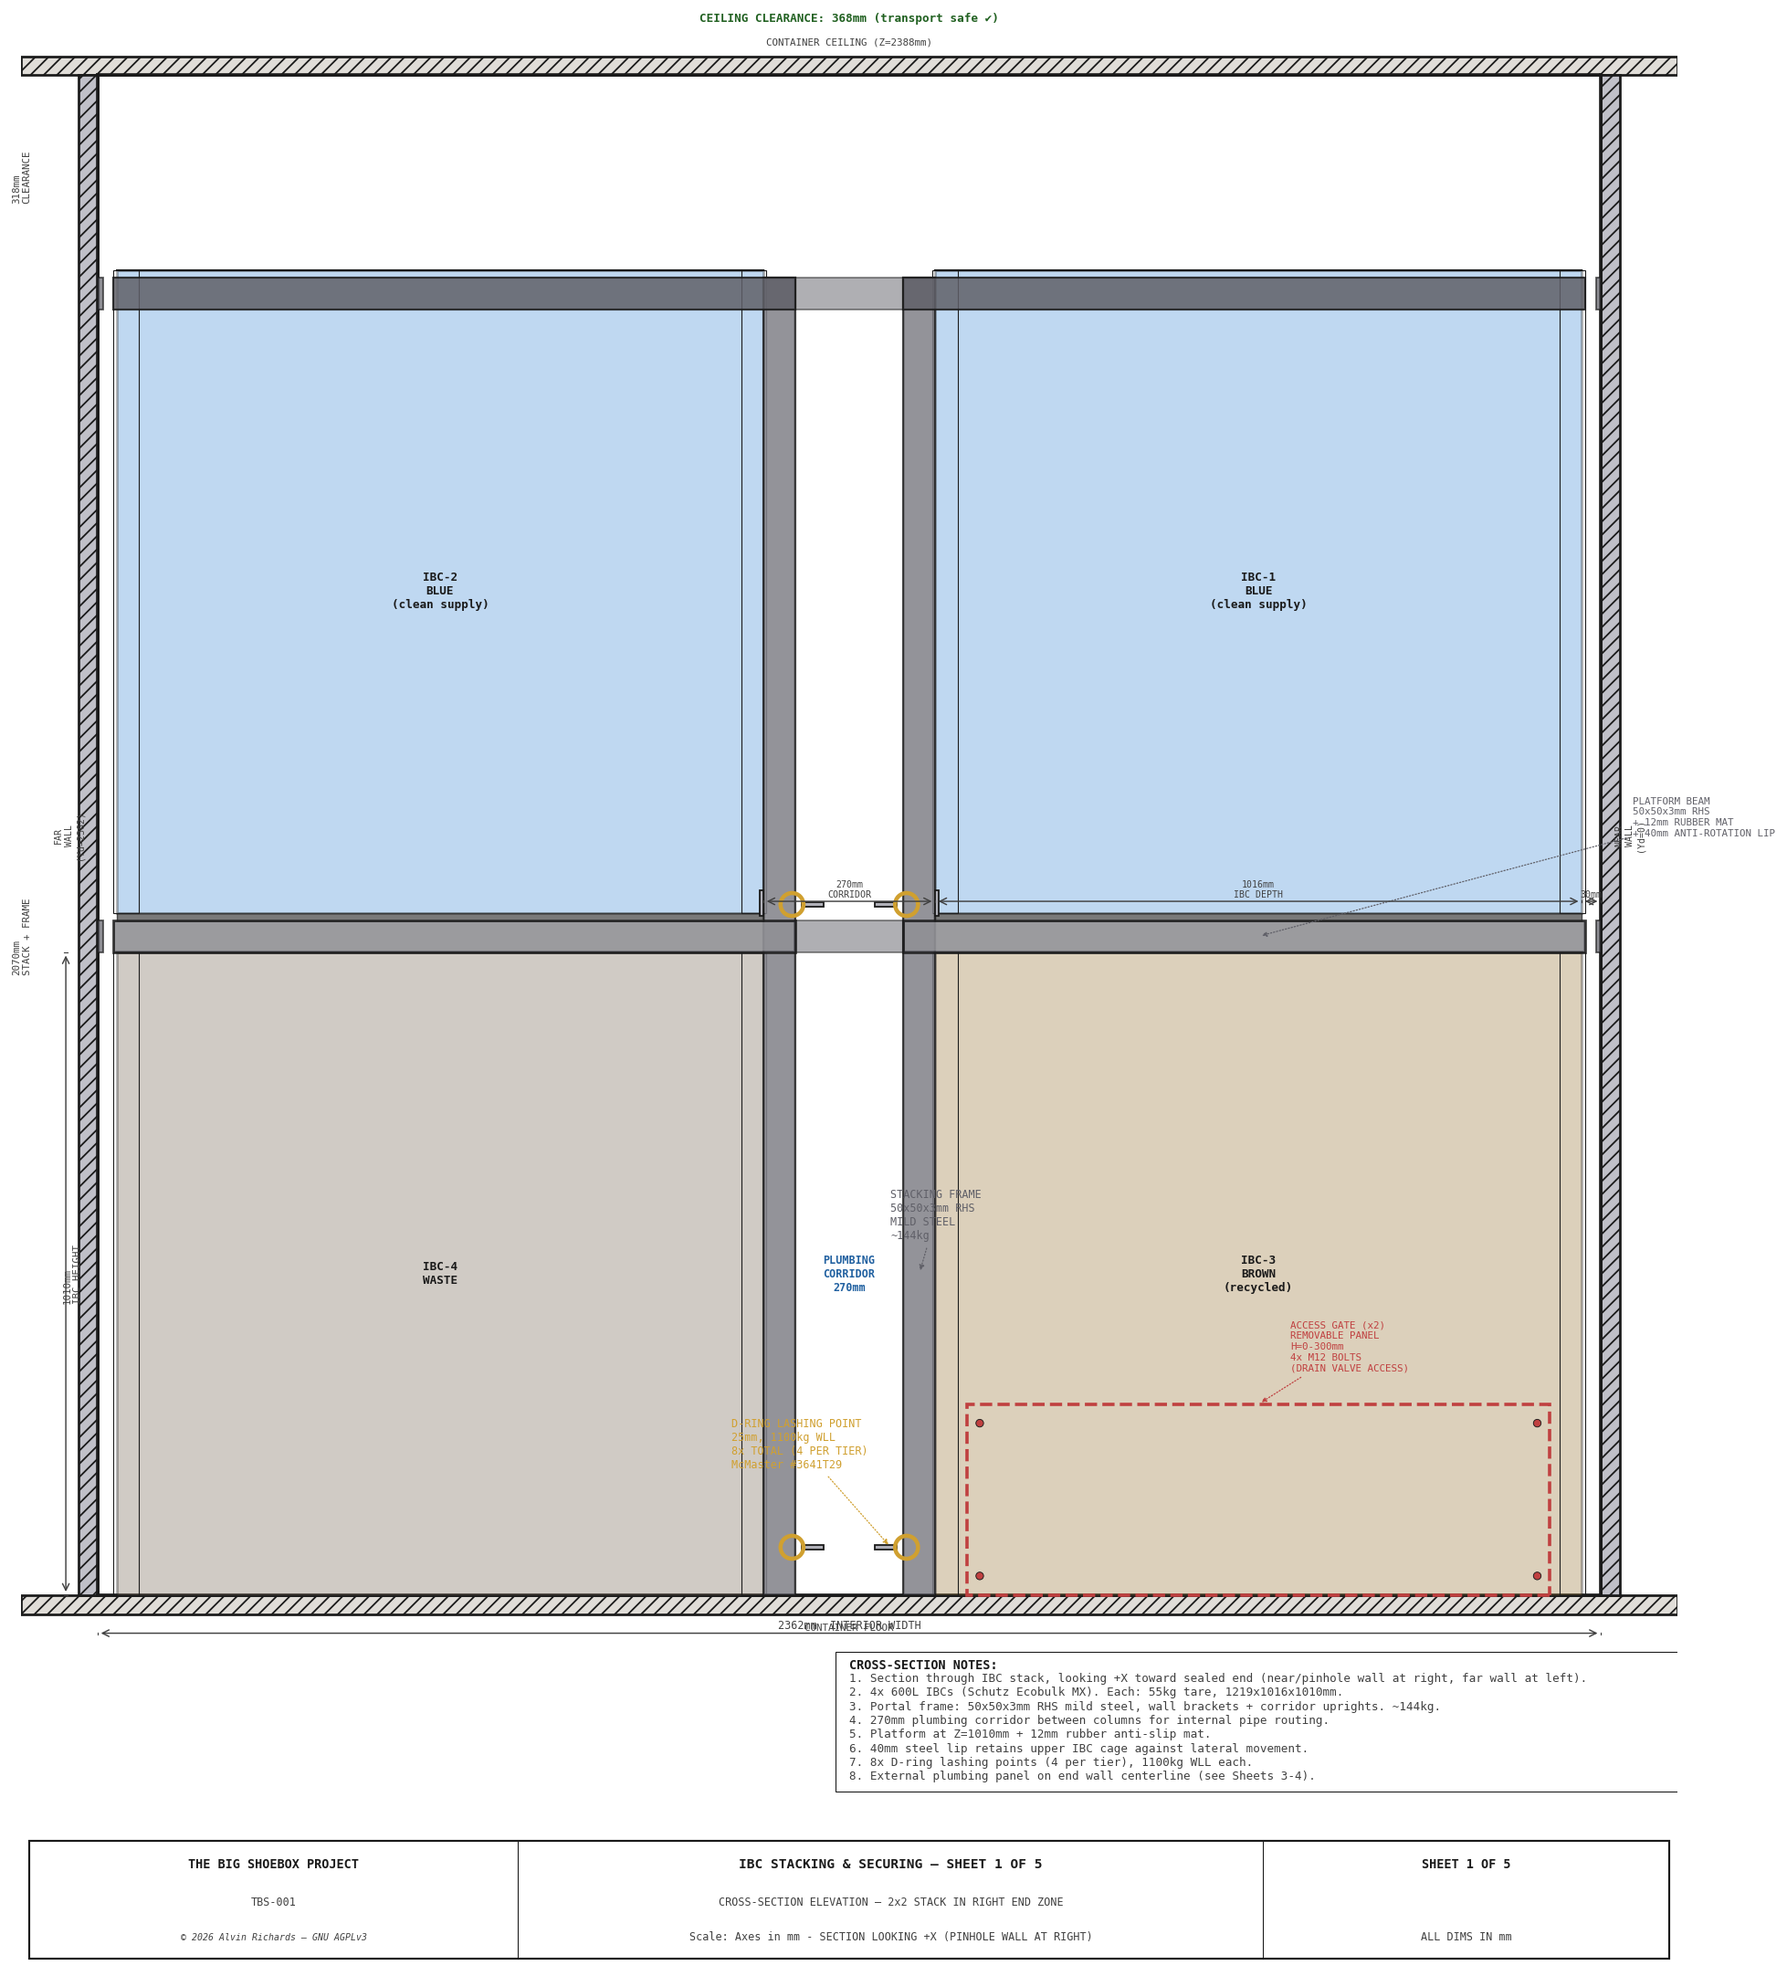
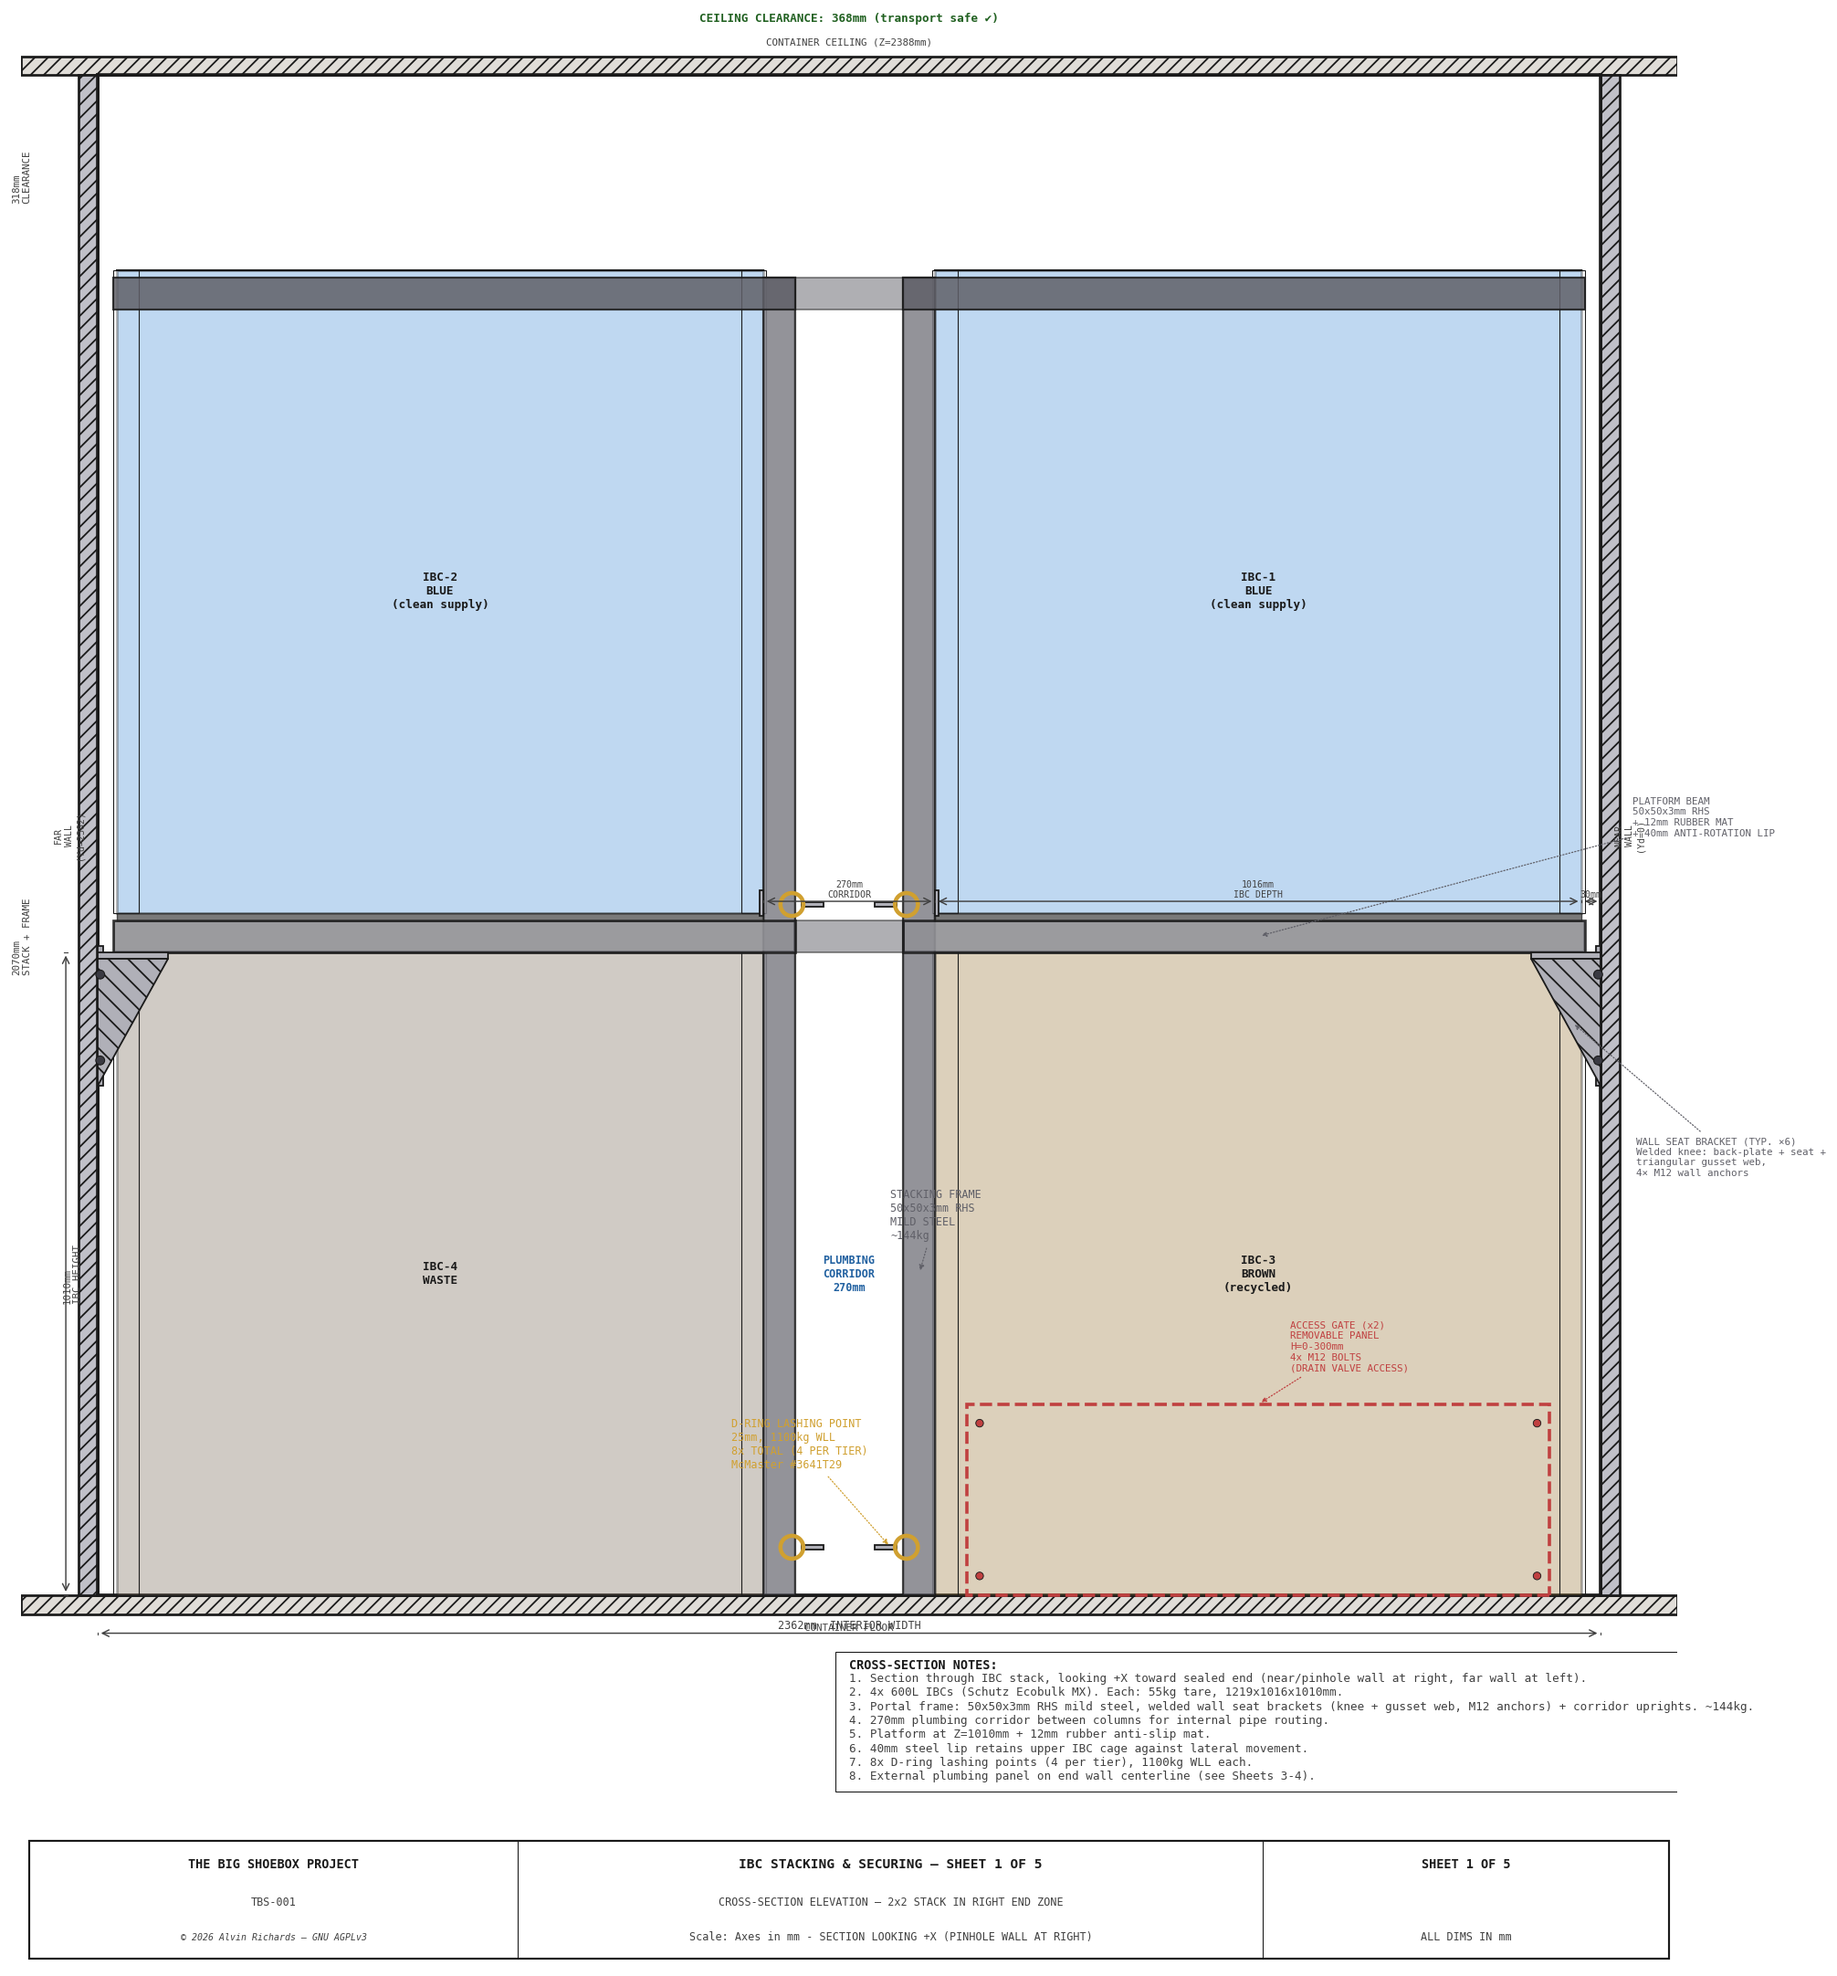
ibc-stacking Sheet 1: draw the welded wall seat brackets like the 3D
Sheet 1 only showed two 8mm angle-bracket stubs at each wall — it didn't
depict the wall seat brackets that the 3D ibc_rack() builds. Redrew them as
the actual welded knee fabrication, matching the model's Wall Bracket
Plate/Seat/Gusset parts:

- vertical back-plate bolted to the container wall,
- horizontal seat the platform-beam OUTER end lands on (turning the
  cantilever into a simple span),
- triangular gusset web between back-plate and seat tip (hatched),
- 2 visible M12 wall-anchor heads, both walls (mirrored), with a callout.

Drawing-logic fix only (audit failure mode 2) — the brackets already
existed in the design, FRAME_WEIGHT, and the reports; no spec, constant,
quantity, or cost change.

diff --git a/src/generators/generate_ibc_stacking_diagram.py b/src/generators/generate_ibc_stacking_diagram.py
@@ -215,13 +215,48 @@ def sheet1():
                                 fc=C_WALL, ec="none", lw=0, zorder=7,
                                 alpha=0.3))
 
-    # Wall brackets (shown as small angle brackets at near and far walls)
-    for wyd, flip in [(0, False), (C_WID - 8, True)]:
-        bracket_w = 8
-        for bz in [platform_z, IBC_H_STK]:
-            ax.add_patch(Rectangle((sx(wyd), sy(bz)),
-                                    sx(bracket_w), sy(FRAME_RHS),
-                                    fc=C_FRAME, ec=C_OUT, lw=1.0, zorder=7, alpha=0.7))
+    # ── Wall seat brackets: welded knee bracket (vertical back-plate + horizontal
+    # seat + triangular gusset web + M12 wall anchors) props each platform-beam
+    # OUTER end against the container wall, turning the cantilever into a simple
+    # span. Matches the 3D "Wall Bracket Plate / Seat / Gusset" fabrication
+    # (~110 kg each, one per X-station per wall). ──
+    C_BOLT    = "#3A3A42"
+    seat_top  = platform_z          # 1010 — platform-beam end lands here
+    proj      = 110                 # seat projection into container (Yd)
+    seat_t    = 10                  # seat plate thickness
+    gh        = 200                 # gusset web depth below the seat
+    plate_t   = 8                   # back-plate thickness (against wall)
+    seat_bot  = seat_top - seat_t
+    guss_bot  = seat_bot - gh
+    plate_top = seat_top + 10
+    for wyd, dir_in in [(0, 1), (C_WID, -1)]:
+        tip      = wyd + dir_in * proj
+        plate_x0 = wyd if dir_in > 0 else wyd - plate_t
+        seat_x0  = min(wyd, tip)
+        # vertical back-plate bolted to the wall
+        ax.add_patch(Rectangle((sx(plate_x0), sy(guss_bot)),
+                                sx(plate_t), sy(plate_top - guss_bot),
+                                fc=C_STEEL, ec=C_OUT, lw=1.0, zorder=8))
+        # horizontal seat the platform-beam end rests on
+        ax.add_patch(Rectangle((sx(seat_x0), sy(seat_bot)),
+                                sx(proj), sy(seat_t),
+                                fc=C_STEEL, ec=C_OUT, lw=1.0, zorder=8))
+        # triangular gusset web welded between back-plate and seat tip
+        ax.add_patch(Polygon([(sx(tip), sy(seat_bot)),
+                              (sx(wyd), sy(seat_bot)),
+                              (sx(wyd), sy(guss_bot))],
+                             closed=True, fc=C_STEEL, ec=C_OUT, lw=1.0,
+                             hatch="\\\\", zorder=8))
+        # 2× visible M12 wall anchor bolt heads on the back-plate
+        for bz in (guss_bot + 40, seat_bot - 25):
+            ax.add_patch(Circle((sx(wyd + dir_in * plate_t / 2), sy(bz)), sy(7),
+                                fc=C_BOLT, ec=C_OUT, lw=0.6, zorder=9))
+
+    # Annotate the wall seat bracket (near-wall instance; typical at both walls)
+    leader(ax, sx(45), sy(seat_bot - gh / 2), sx(-55), sy(720),
+           "WALL SEAT BRACKET (TYP. ×6)\nWelded knee: back-plate + seat +\ntriangular gusset web,\n4× M12 wall anchors",
+           color=C_FRAME, fs=6, ha="left", va="top",
+           arrow_style="-|>", font=FONT)
 
     # Platform beams — one per column (not spanning corridor)
     for col_l, col_r in [(BLUE_IBC_Y - 5, near_col_r + FRAME_RHS),
@@ -386,7 +421,7 @@ def sheet1():
         "CROSS-SECTION NOTES:",
         "1. Section through IBC stack, looking +X toward sealed end (near/pinhole wall at right, far wall at left).",
         f"2. 4x 600L IBCs (Schutz Ecobulk MX). Each: 55kg tare, {IBC_W}x{IBC_D}x{IBC_H_600}mm.",
-        f"3. Portal frame: 50x50x3mm RHS mild steel, wall brackets + corridor uprights. ~{FRAME_WEIGHT}kg.",
+        f"3. Portal frame: 50x50x3mm RHS mild steel, welded wall seat brackets (knee + gusset web, M12 anchors) + corridor uprights. ~{FRAME_WEIGHT}kg.",
         f"4. {IBC_GAP}mm plumbing corridor between columns for internal pipe routing.",
         f"5. Platform at Z={IBC_H_600}mm + {MAT_T}mm rubber anti-slip mat.",
         f"6. {FRAME_LIP_H}mm steel lip retains upper IBC cage against lateral movement.",
